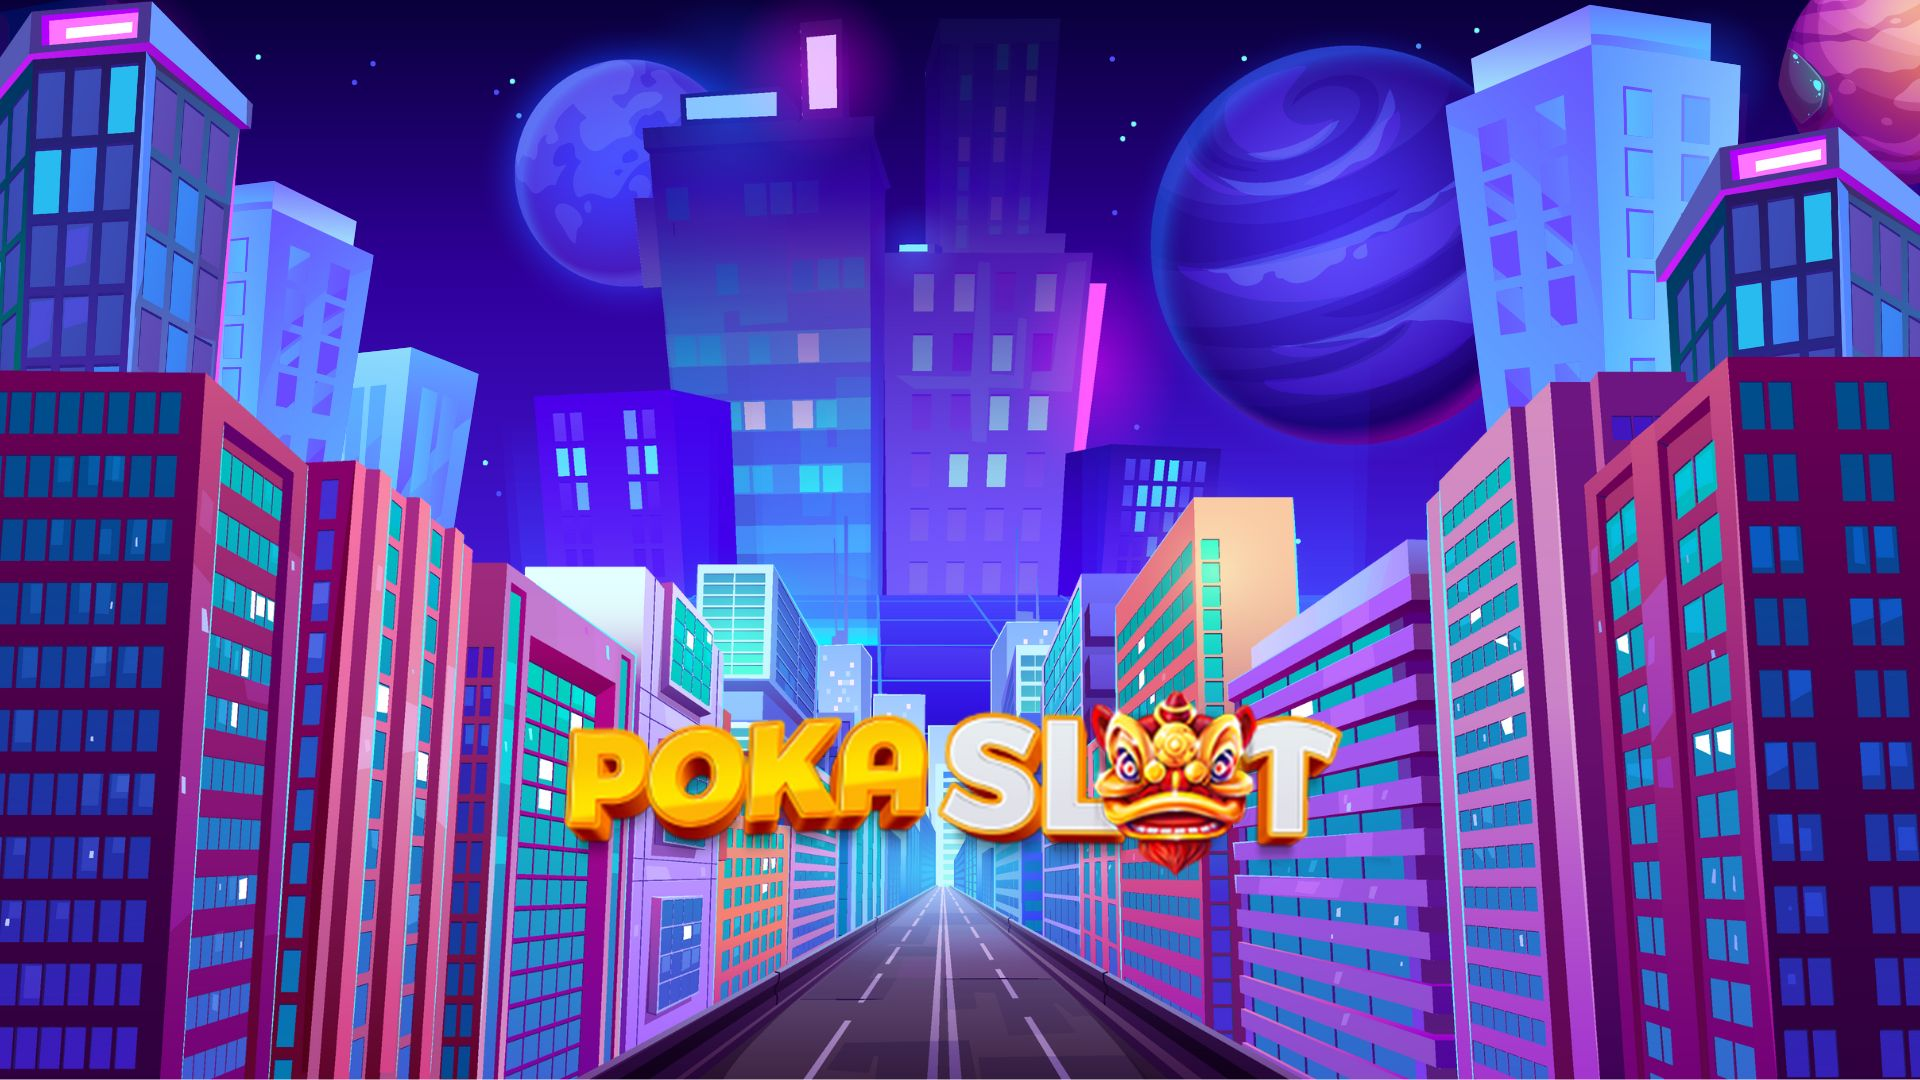
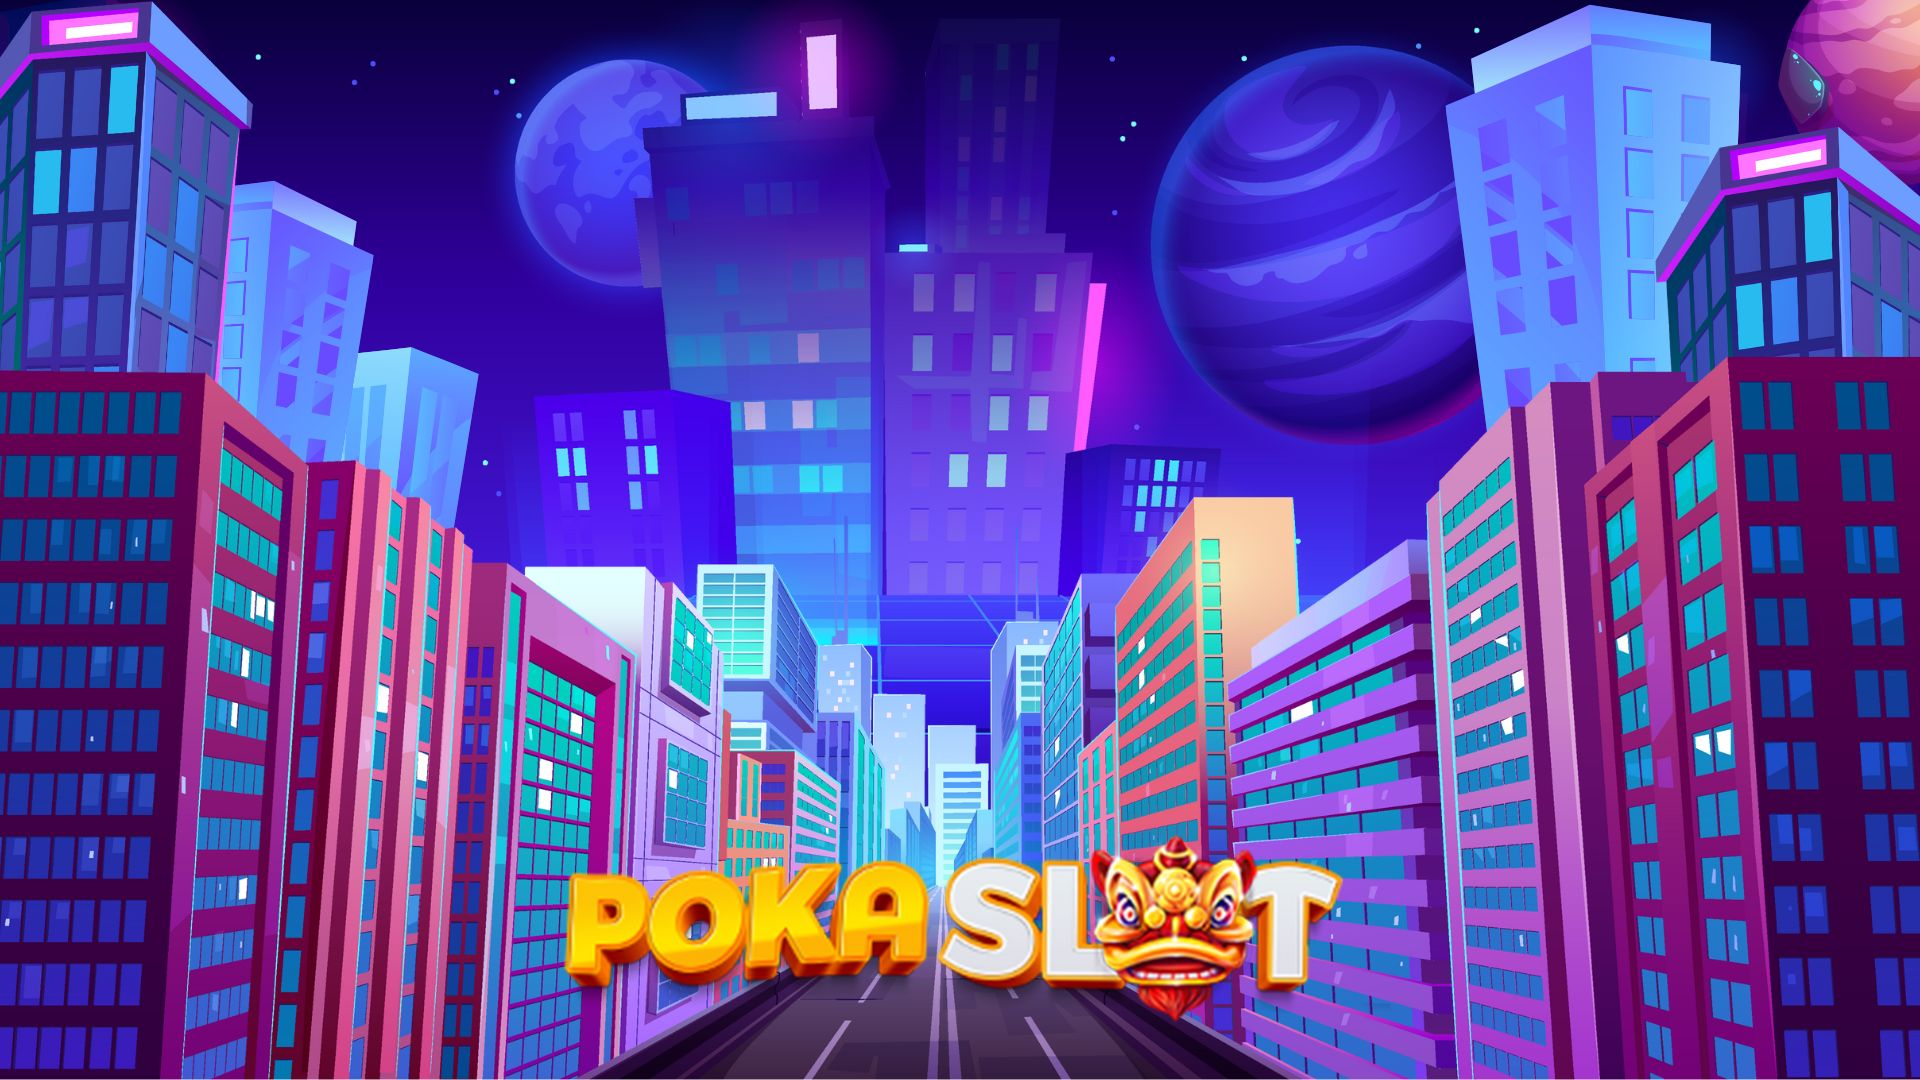
Change Background image and admin

Changed region(s): [[0.2812, 0.6417, 0.7188, 0.9472]]

diff --git a/admin/index.html b/admin/index.html
@@ -3,7 +3,7 @@
 <head>
   <meta charset="UTF-8">
   <meta name="viewport" content="width=device-width, initial-scale=1.0">
-  <title>Admin Helios168 - Lucky Wheel Spin</title>
+  <title>Admin POKASLOT - Lucky Wheel Spin</title>
   <link rel="stylesheet" href="https://stackpath.bootstrapcdn.com/bootstrap/4.5.2/css/bootstrap.min.css">
   <style>
     body { background: #000; color: white; padding: 30px; }
@@ -15,7 +15,7 @@
   </style>
 </head>
 <body>
-  <h1>🎯 HELIOS168 ADMIN LUCKY SPIN</h1>
+  <h1>🎯 POKASLOT ADMIN LUCKY SPIN</h1>
 
   <form id="generateForm" class="form-inline">
     <select id="prizeInput" class="form-control" required>
